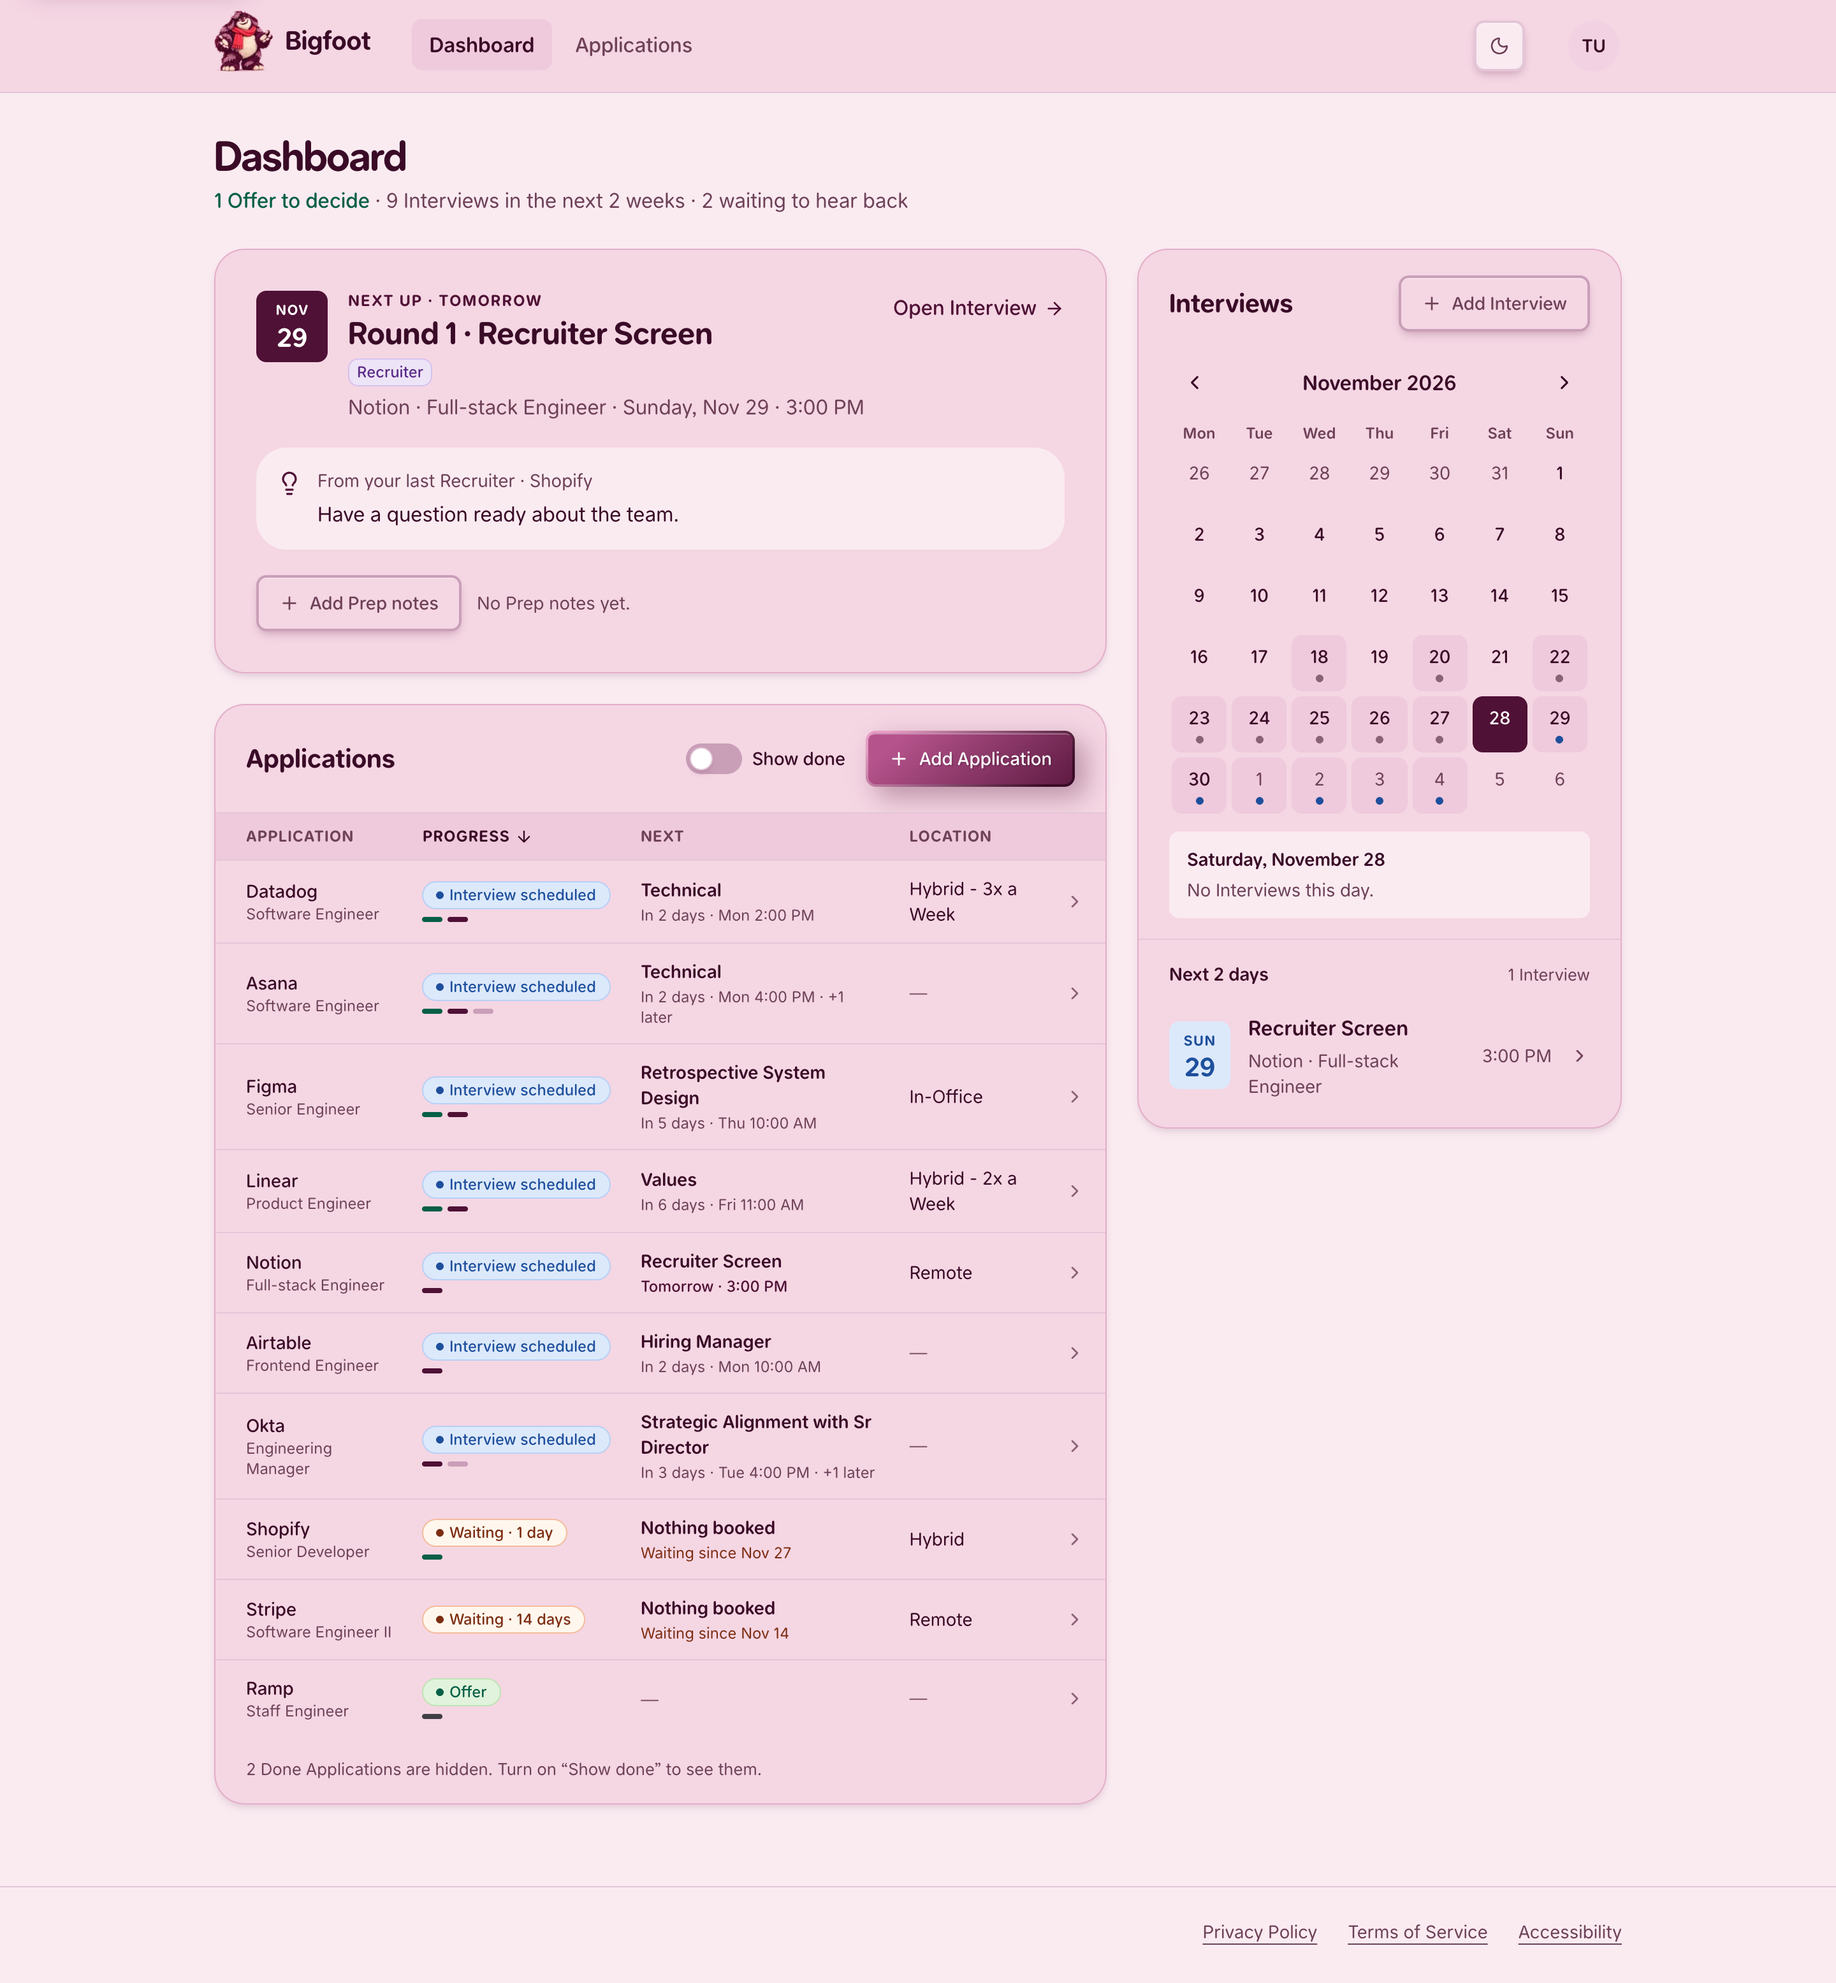
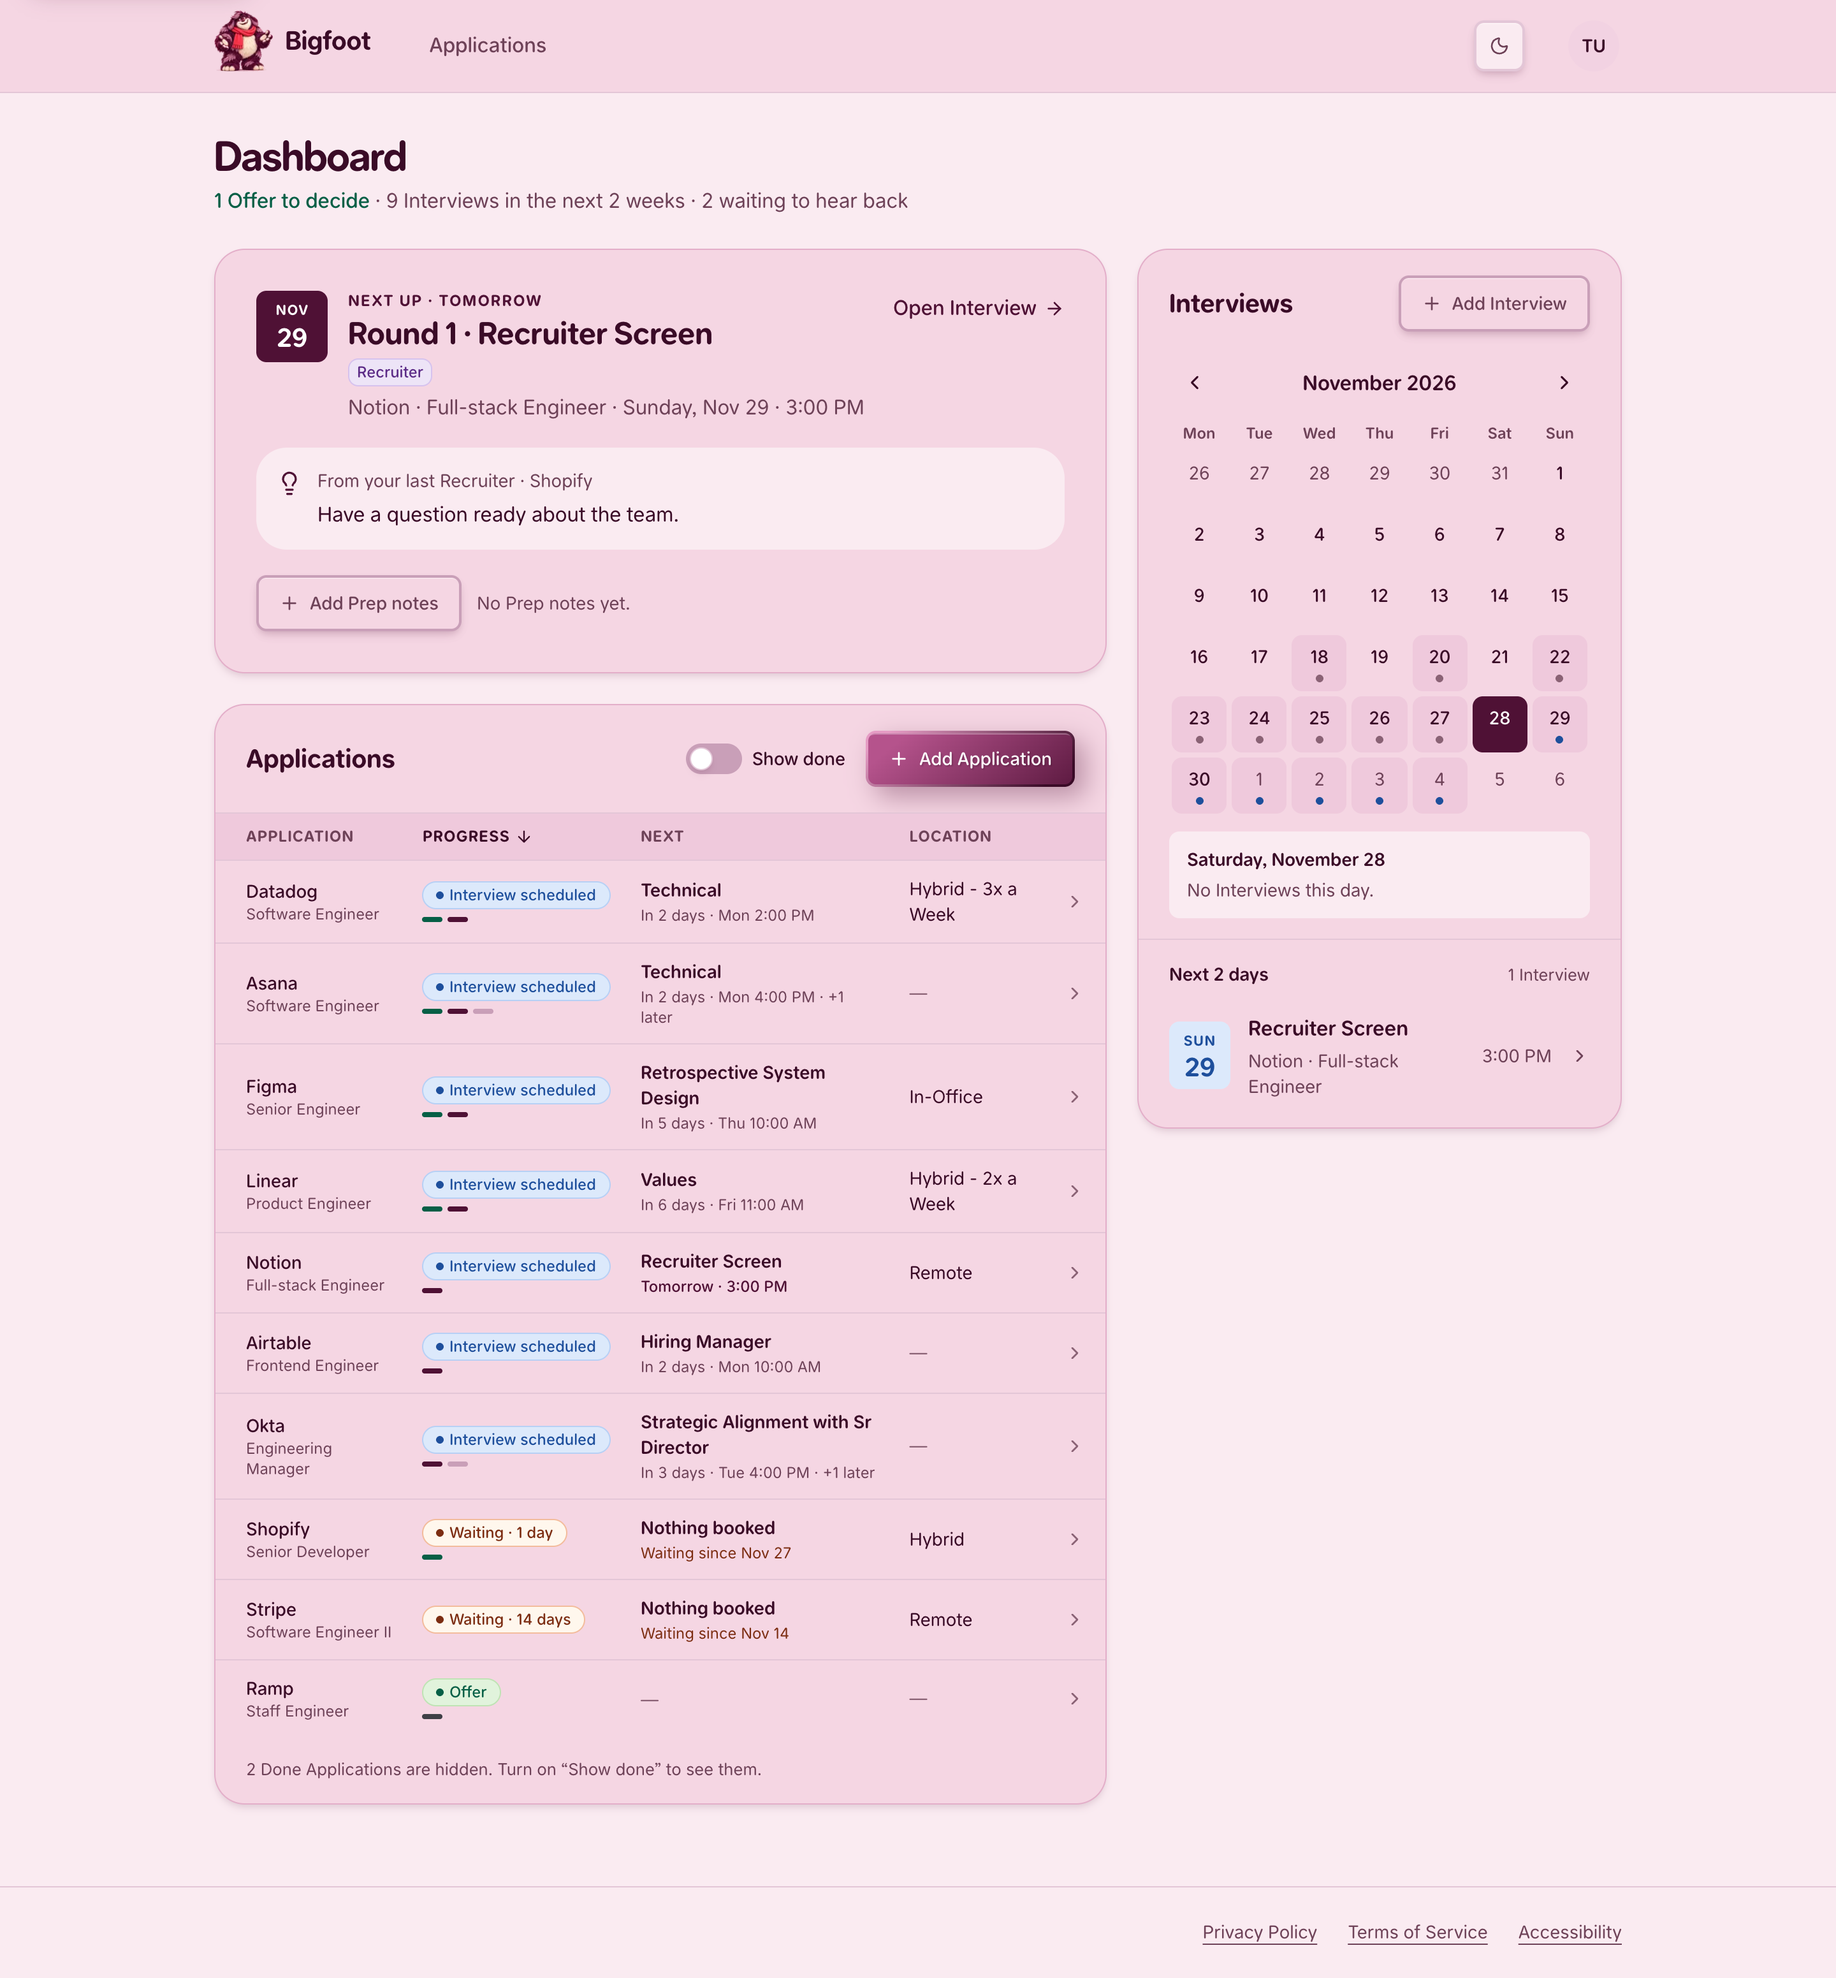
Reach the Dashboard from Bigfoot's link at every width, not a pill (BIG-252)
The header keeps one look everywhere: Bigfoot's link leads to the Dashboard, marked current there,
and the Applications pill is the only one.

diff --git a/src/features/shell/app-header.stories.tsx b/src/features/shell/app-header.stories.tsx
@@ -22,11 +22,15 @@ const meta = {
 export default meta;
 type Story = StoryObj<typeof meta>;
 
-/** On the dashboard, with initials where Google has no photo, and Bigfoot beside the name: decorative, so an empty alt. */
+/**
+ * On the dashboard, with initials where Google has no photo, and Bigfoot beside the name: decorative,
+ * so an empty alt. Bigfoot's link is the way to the Dashboard (BIG-252), marked current here.
+ */
 export const Default: Story = {
   play: async ({ canvas, canvasElement }) => {
     await expect(canvasElement.querySelector('img[src*="bigfoot-welcome"]')).toHaveAttribute("alt", "");
-    await expect(canvas.getByRole("link", { name: "Dashboard" })).toHaveAttribute("aria-current", "page");
+    await expect(canvas.getByRole("link", { name: "Bigfoot dashboard" })).toHaveAttribute("aria-current", "page");
+    await expect(canvas.queryByRole("link", { name: "Dashboard" })).not.toBeInTheDocument();
     await expect(canvas.getByRole("button", { name: "Account menu, Alex Morgan" })).toHaveTextContent("AM");
     // The dark mode toggle sits just before the avatar (BIG-251).
     await expect(canvas.getByRole("button", { name: "Dark mode" })).toBeVisible();
@@ -38,22 +42,17 @@ export const Applications: Story = {
   args: { current: "/applications" },
   play: async ({ canvas }) => {
     await expect(canvas.getByRole("link", { name: "Applications" })).toHaveAttribute("aria-current", "page");
-    await expect(canvas.getByRole("link", { name: "Dashboard" })).not.toHaveAttribute("aria-current");
+    await expect(canvas.getByRole("link", { name: "Bigfoot dashboard" })).not.toHaveAttribute("aria-current");
   },
 };
 
-/**
- * On a 320 px phone: the wordmark, Applications, the dark mode toggle and the avatar all fit in the
- * bar. Dashboard gives way to Bigfoot, whose link leads there (BIG-252).
- */
+/** On a 320 px phone: the wordmark, Applications, the dark mode toggle and the avatar all fit in the bar. */
 export const Phone: Story = {
   globals: { viewport: { value: "mobile1", isRotated: false } },
   play: async ({ canvas, canvasElement }) => {
     const doc = canvasElement.ownerDocument.documentElement;
     await expect(doc.scrollWidth).toBeLessThanOrEqual(doc.clientWidth);
     await expect(canvas.getByRole("link", { name: "Applications" })).toBeVisible();
-    await expect(canvas.queryByRole("link", { name: "Dashboard" })).not.toBeInTheDocument();
-    await expect(canvas.getByRole("link", { name: "Bigfoot dashboard" })).toHaveAttribute("href", "/dashboard");
     await expect(canvas.getByRole("button", { name: "Dark mode" })).toBeVisible();
     await expect(canvas.getByRole("button", { name: "Account menu, Alex Morgan" })).toBeVisible();
   },
@@ -64,7 +63,8 @@ export const Account: Story = {
   args: { current: undefined },
   play: async ({ canvas }) => {
     await expect(canvas.getByRole("link", { name: "Bigfoot dashboard" })).toHaveAttribute("href", "/dashboard");
-    await expect(canvas.getByRole("link", { name: "Dashboard" })).not.toHaveAttribute("aria-current");
+    await expect(canvas.getByRole("link", { name: "Bigfoot dashboard" })).not.toHaveAttribute("aria-current");
+    await expect(canvas.getByRole("link", { name: "Applications" })).not.toHaveAttribute("aria-current");
     await expect(canvas.queryByRole("link", { name: "Account" })).not.toBeInTheDocument();
   },
 };

diff --git a/src/features/shell/app-header.tsx b/src/features/shell/app-header.tsx
@@ -6,31 +6,38 @@ import { ThemeToggle } from "@/features/shell/theme-toggle";
 import { Wordmark } from "@/features/shell/wordmark";
 import type { CurrentUser } from "@/lib/dal";
 
-// Account is reached from the avatar's menu, not the nav (BIG-195). On a phone there is no room for
-// both pills beside the dark mode toggle and the avatar, so Dashboard gives way to Bigfoot, whose
-// link leads there too (BIG-252).
-const links = [
-  { href: "/dashboard", label: "Dashboard", className: "max-sm:hidden" },
-  { href: "/applications", label: "Applications", className: "" },
-] as const;
+// Account is reached from the avatar's menu, not the nav (BIG-195). The Dashboard is reached from
+// Bigfoot's link, at every width, not a pill (BIG-252): a phone has no room for two pills beside the
+// dark mode toggle and the avatar, and the header looks the same everywhere.
+const links = [{ href: "/applications", label: "Applications" }] as const;
+
+/** The signed-in pages the header can mark current: the Dashboard (Bigfoot's link) and each pill's. */
+type CurrentPage = "/dashboard" | (typeof links)[number]["href"];
 
 /**
- * Header for signed-in pages (BIG-173): Bigfoot and the wordmark (a link to the Dashboard), the signed-in pages as pills (Applications only, on a phone), the light and dark mode toggle,
- * and the job seeker's avatar, which opens the Account menu with Sign out. Without a user (a page's loading
- * state) it is the same header with a shape where the avatar goes. A page not in the nav (Account)
- * leaves `current` out and highlights nothing.
+ * Header for signed-in pages (BIG-173): Bigfoot and the wordmark (the link to the Dashboard), the
+ * other signed-in pages as pills (Applications), the light and dark mode toggle, and the job seeker's
+ * avatar, which opens the Account menu with Sign out. `current` marks the page's link: a pill
+ * highlighted, or Bigfoot's link on the Dashboard, for screen readers. Without a user (a page's
+ * loading state) it is the same header with a shape where the avatar goes. A page not in the nav
+ * (Account) leaves `current` out and marks nothing.
  */
-export function AppHeader({ user, current }: { user?: CurrentUser; current?: (typeof links)[number]["href"] }) {
+export function AppHeader({ user, current }: { user?: CurrentUser; current?: CurrentPage }) {
   return (
     <header className="sticky top-0 z-50 border-b border-line bg-card">
       <Container className="flex h-[72px] items-center gap-2 sm:gap-8">
-        <Link href="/dashboard" aria-label="Bigfoot dashboard" className="touch-target rounded-control">
+        <Link
+          href="/dashboard"
+          aria-label="Bigfoot dashboard"
+          aria-current={current === "/dashboard" ? "page" : undefined}
+          className="touch-target rounded-control"
+        >
           <Wordmark compact mark="bigfoot" />
         </Link>
         <nav aria-label="Signed in" className="min-w-0 flex-1">
           <ul className="m-0 flex list-none items-center gap-1 p-0">
             {links.map((link) => (
-              <li key={link.href} className={link.className}>
+              <li key={link.href}>
                 <Link
                   href={link.href}
                   aria-current={link.href === current ? "page" : undefined}

diff --git a/src/features/shell/app-header.test.tsx b/src/features/shell/app-header.test.tsx
@@ -40,7 +40,8 @@ describe("AppHeader without a user", () => {
   it("keeps the real nav, without Account, with a shape where the avatar goes", () => {
     render(<AppHeader current="/dashboard" />);
     const nav = screen.getByRole("navigation", { name: "Signed in" });
-    expect(within(nav).getByRole("link", { name: "Dashboard" })).toHaveAttribute("aria-current", "page");
+    expect(screen.getByRole("link", { name: "Bigfoot dashboard" })).toHaveAttribute("aria-current", "page");
+    expect(within(nav).getByRole("link", { name: "Applications" })).not.toHaveAttribute("aria-current");
     expect(within(nav).queryByRole("link", { name: "Account" })).not.toBeInTheDocument();
     expect(screen.queryByRole("button", { name: /^Account menu/ })).not.toBeInTheDocument();
     expect(screen.getByRole("banner").querySelectorAll(".skeleton")).toHaveLength(1);
@@ -48,13 +49,13 @@ describe("AppHeader without a user", () => {
 });
 
 describe("AppHeader's nav (BIG-252)", () => {
-  it("has Dashboard and Applications, Applications current on the Applications page", () => {
+  it("has an Applications pill, current on the Applications page; Bigfoot's link is the way to the Dashboard", () => {
     render(<AppHeader user={user} current="/applications" />);
     const nav = screen.getByRole("navigation", { name: "Signed in" });
-    expect(within(nav).getAllByRole("link").map((link) => link.textContent)).toEqual(["Dashboard", "Applications"]);
+    expect(within(nav).getAllByRole("link").map((link) => link.textContent)).toEqual(["Applications"]);
     expect(within(nav).getByRole("link", { name: "Applications" })).toHaveAttribute("aria-current", "page");
     expect(within(nav).getByRole("link", { name: "Applications" })).toHaveAttribute("href", "/applications");
-    expect(within(nav).getByRole("link", { name: "Dashboard" })).not.toHaveAttribute("aria-current");
+    expect(screen.getByRole("link", { name: "Bigfoot dashboard" })).not.toHaveAttribute("aria-current");
   });
 });
 
@@ -67,7 +68,8 @@ describe("AppHeader on a page outside the nav", () => {
   it("highlights nothing", () => {
     render(<AppHeader user={user} />);
     const nav = screen.getByRole("navigation", { name: "Signed in" });
-    expect(within(nav).getByRole("link", { name: "Dashboard" })).not.toHaveAttribute("aria-current");
+    expect(within(nav).getByRole("link", { name: "Applications" })).not.toHaveAttribute("aria-current");
+    expect(screen.getByRole("link", { name: "Bigfoot dashboard" })).not.toHaveAttribute("aria-current");
   });
 });
 
